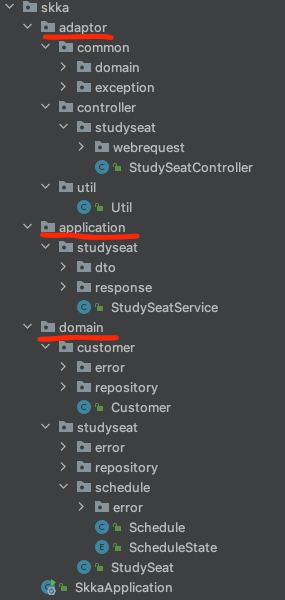
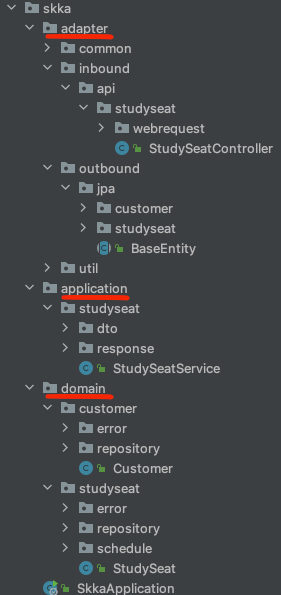
wiki 사진 수정

diff --git a/wiki/issue_scalable_flexible_design-1.md b/wiki/issue_scalable_flexible_design-1.md
@@ -60,3 +60,7 @@
 
 
 핵심 도메인 로직과 입력/출력 메커니즘을 분리하고 인터페이스를 사용하여 그 사이의 계약을 정의한다. 이렇게 하면서 <u>**확장성/유연함**</u>, <u>**테스트 용이성**</u>, <u>**유지보수성**</u>, <u>**도메인 집중성**</u>, <u>**미래 지향적/이식성**</u>인 구조를 가질 수 있게 된다.
+
+그래서 다음과 같은 구조가 되었다.
+
+![img.png](imgs/img_6.png)
